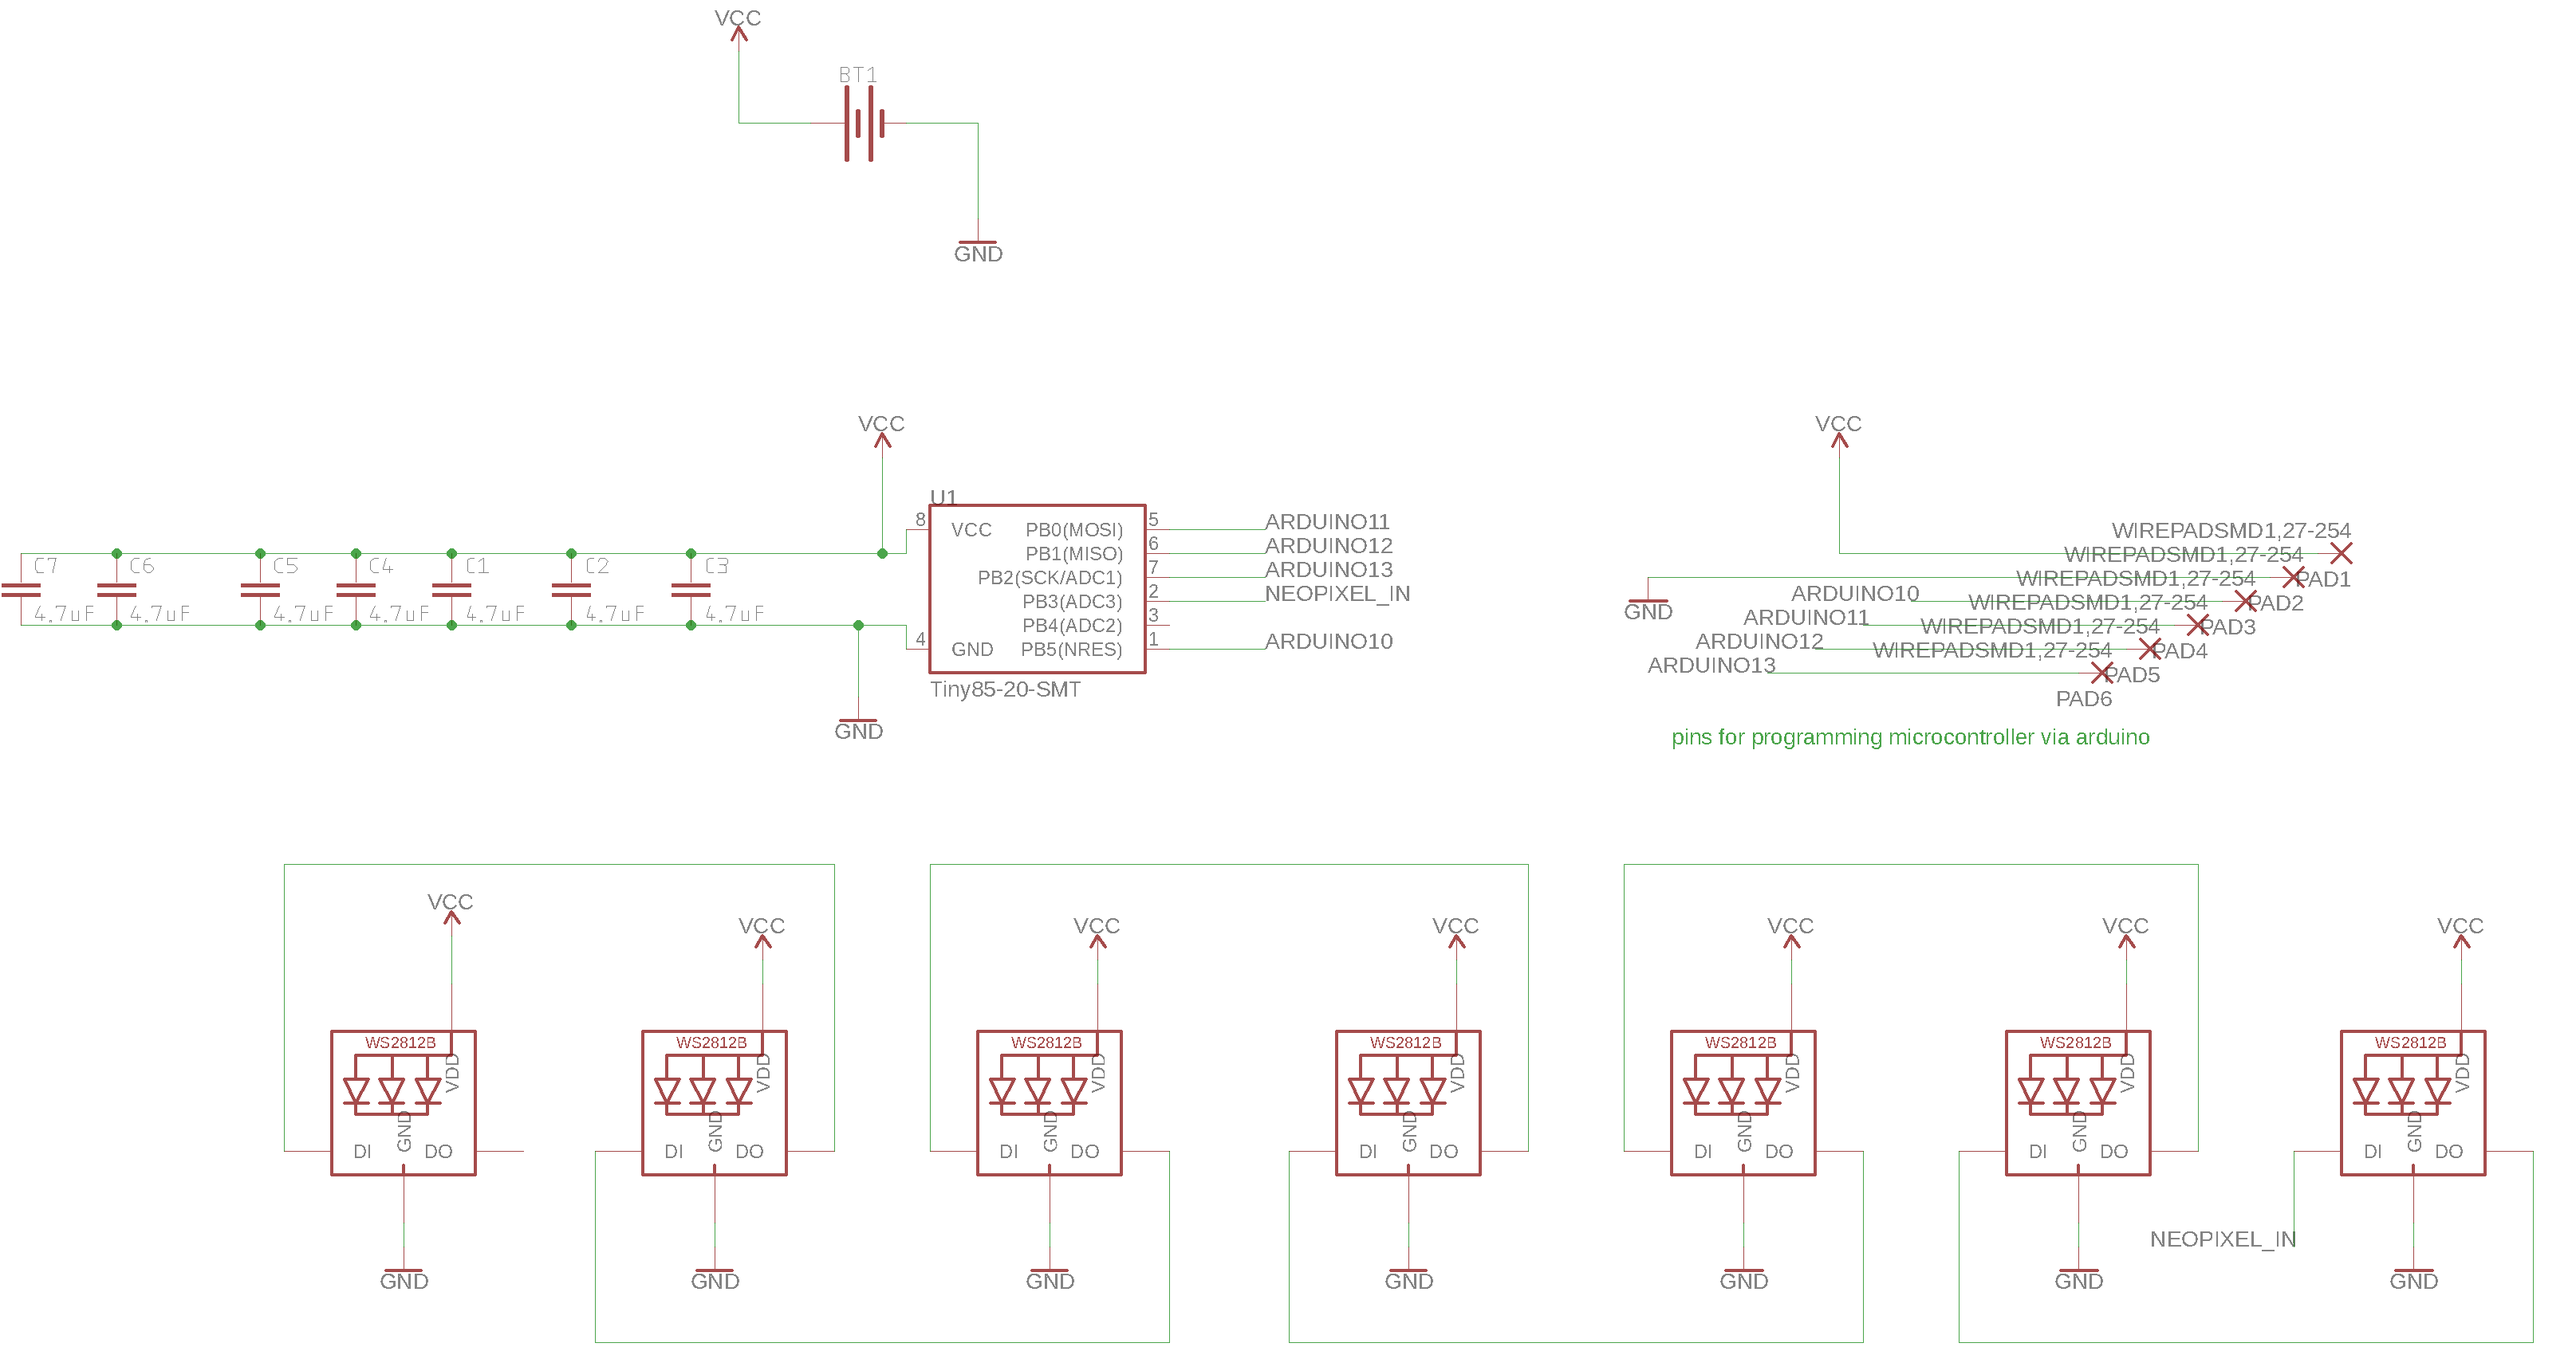
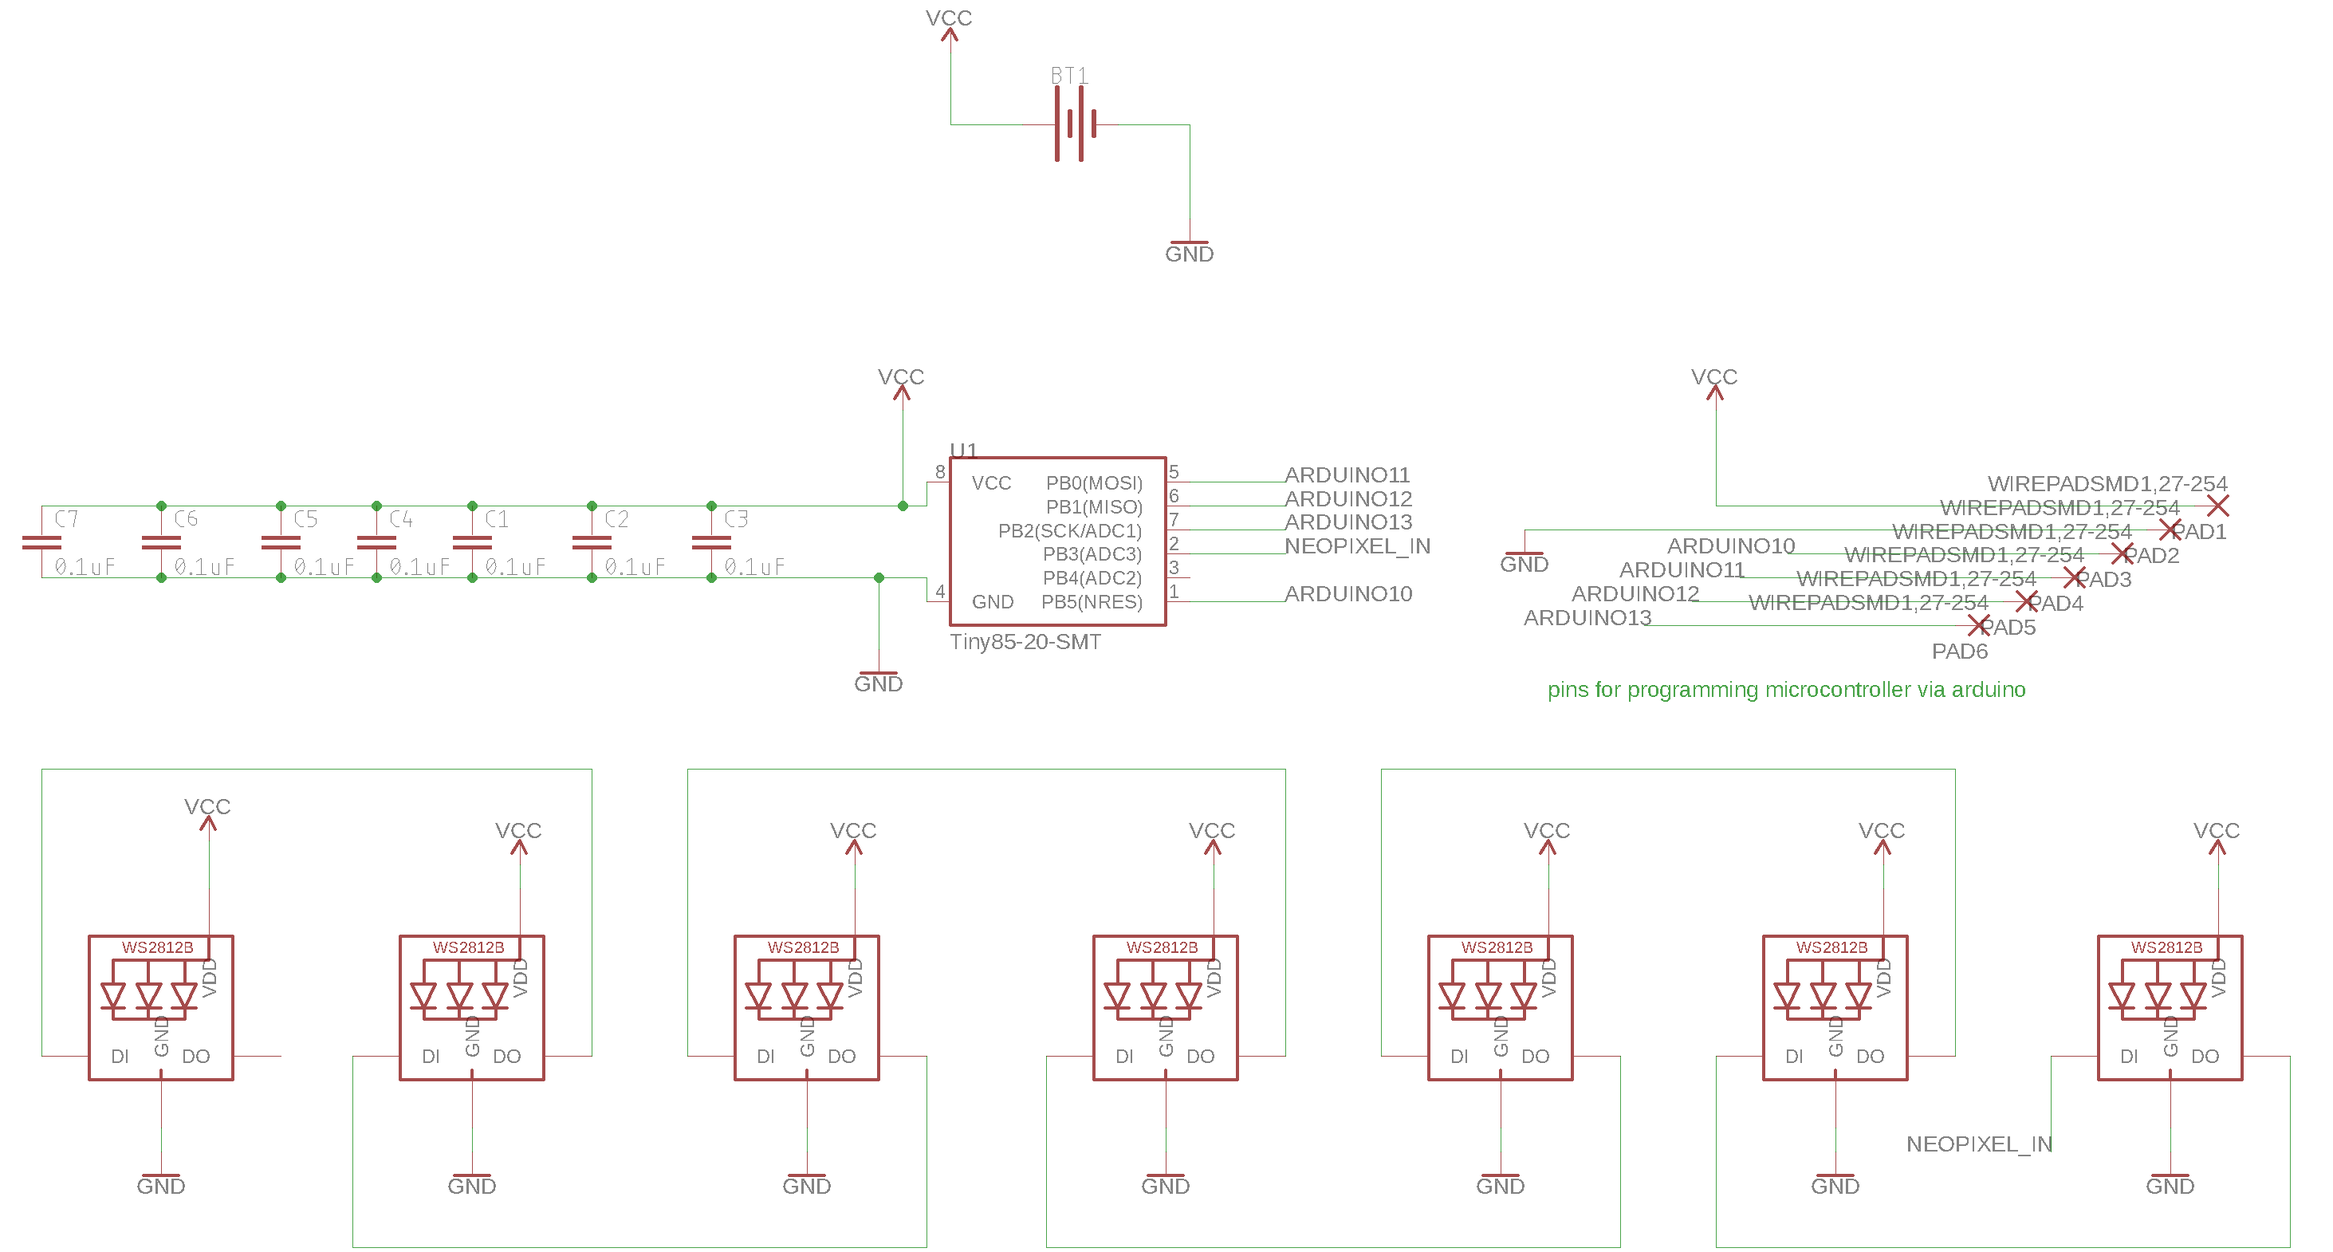
edited blog post, new image

diff --git a/_posts/2018-3-21-Midterm-Neopixel-Earring.md b/_posts/2018-3-21-Midterm-Neopixel-Earring.md
@@ -3,11 +3,20 @@ layout: post
 title: "Midterm: Neopixel Earring"
 categories: hardware
 ---
-image
+
+![alt text](https://raw.githubusercontent.com/jirrian/jirrian.github.io/master/images/homemadehardware/midterm/earring_final.jpg)
+I made a battery powered earing with neopixels. My goal for this assignment was to learn how to use surface mount components so I kept the design and functionality.
 
 #### Schematic and Board Design ####
+![alt text](https://raw.githubusercontent.com/jirrian/jirrian.github.io/master/images/homemadehardware/midterm/neopixel_earring_sch.png)
+![alt text](https://raw.githubusercontent.com/jirrian/jirrian.github.io/master/images/homemadehardware/midterm/neopixel_earring_brd.png)
 
 #### Parts List ####
+WS2812B neopixel (7)
+0.1μF capacitor (7)
+ATTiny85
+[coin cell battery holder](https://www.amazon.com/gp/product/B01J5FY2GI/ref=oh_aui_detailpage_o01_s00?ie=UTF8&psc=1)
+3V coin cell battery
 
 #### Code ####
 I used Adafruit's example code for neopixels and adapted it for my needs. I turned the brightness down since I'm only powering it with a 3V coin cell battery.
@@ -64,9 +73,19 @@ uint32_t Wheel(byte WheelPos) {
 }
 ```
 
-#### Video Documentation of Interaction####
+#### Process ####
+I had to remill the board several times while making the dimensions larger so that the ground plane would not get disconnected.
+![alt text](https://raw.githubusercontent.com/jirrian/jirrian.github.io/master/images/homemadehardware/midterm/millprocess.jpg)
+
+After placing surface mount components and reflow:
+![alt text](https://raw.githubusercontent.com/jirrian/jirrian.github.io/master/images/homemadehardware/midterm/smc.jpg)
+
+I left pads to solder wires to that connect to my Arduino Uno to program the ATTiny85. While programming, something went wrong and I could no longer get a device signature from my ATtiny85. I ended up replacing it with another one which worked.
+![alt text](https://raw.githubusercontent.com/jirrian/jirrian.github.io/master/images/homemadehardware/midterm/programming.jpg)
+
+#### Mistakes in Board Design ####
+After receiving the battery holders, I found out that they are different from the part I used in the board design. The ground pin is on the side and not in the center (as it is in the board design file). I soldered a wire to connect the ground plane in the center to the side plane which was not connected to anything. I then soldered the battery holder on top of that.
+While programming, I realized I also made a mistake in the board design and forgot to add an external pull-up resistor to VCC on the reset pin of the ATTiny85. I also did not add a resistor before my first neopixel which is recommended by Adafruit.
+
+#### Documentation Images ####
 <iframe width="560" height="315" src="https://www.youtube.com/embed/rnmWxoutTYg" frameborder="0"allowfullscreen></iframe>
-It works!!
-
-#### Process and Mistakes ####
-
